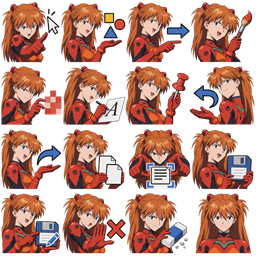
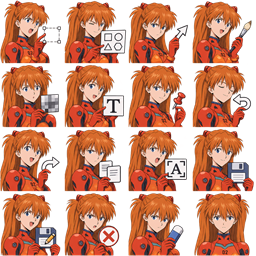
release: publish Snap-Lite v1.7.9

diff --git a/tests/test_build_scripts.py b/tests/test_build_scripts.py
@@ -4571,7 +4571,7 @@ class ReleaseVersionTest(unittest.TestCase):
         project(...) 在文件第 2 行。
         """
         cmake = (REPO_ROOT / "CMakeLists.txt").read_text(encoding="utf-8")
-        self.assertEqual(self.resolver.parse_base_version(cmake), "1.7.8")
+        self.assertEqual(self.resolver.parse_base_version(cmake), "1.7.9")
 
     def test_version_comparison_uses_components_not_prefixes(self) -> None:
         """版本比较必须按分量，不能只做字符串前缀比较。

diff --git a/.release/v1.7.9.md b/.release/v1.7.9.md
@@ -1,0 +1,9 @@
+# Snap-Lite v1.7.9
+
+根据用户提供的对应参考图，重新校准多套 UI 主题图集的画风。
+
+- 更新轻音以外的 9 张 4×4 工具图集，保留功能格和角色分配。
+- 保留崩坏：星穹铁道、摇曳露营、原神、绝区零、崩坏3和鸣潮等主题。
+- 继续支持单角色主题与作品多角色主题。
+
+Windows 11 x64。

diff --git a/README.md b/README.md
@@ -114,5 +114,5 @@ python scripts/verify_generated_sources.py build
 发布版本号解析（纯函数，可单测）：
 
 ```powershell
-python scripts/resolve_release_version.py --base-version 1.7.8
+python scripts/resolve_release_version.py --base-version 1.7.9
 ```
